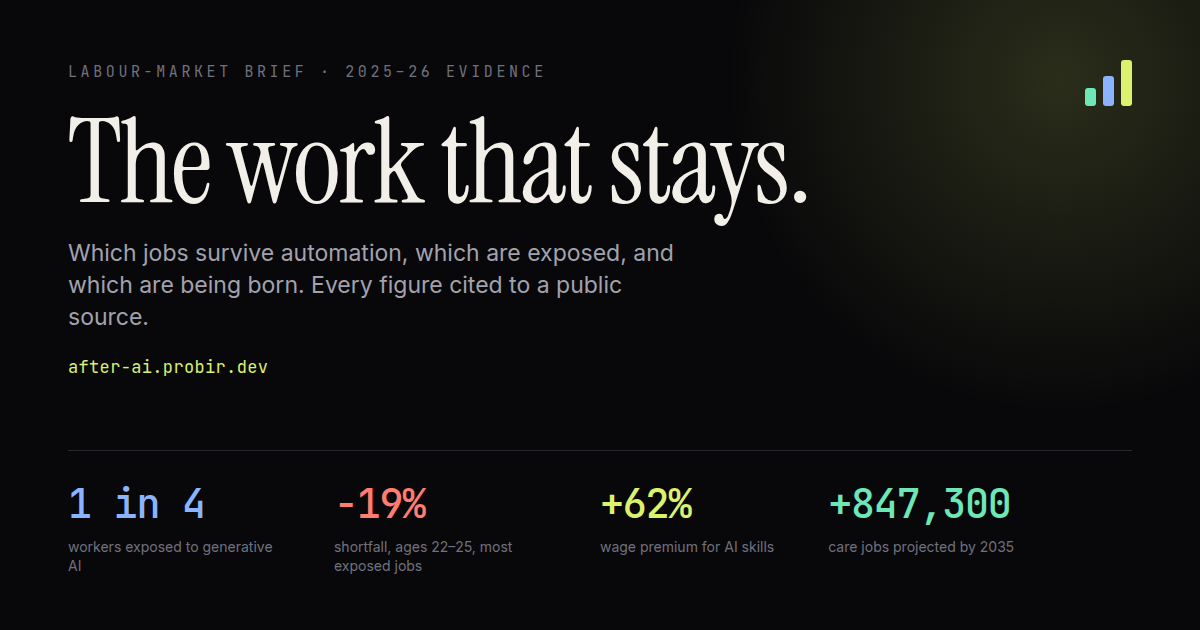
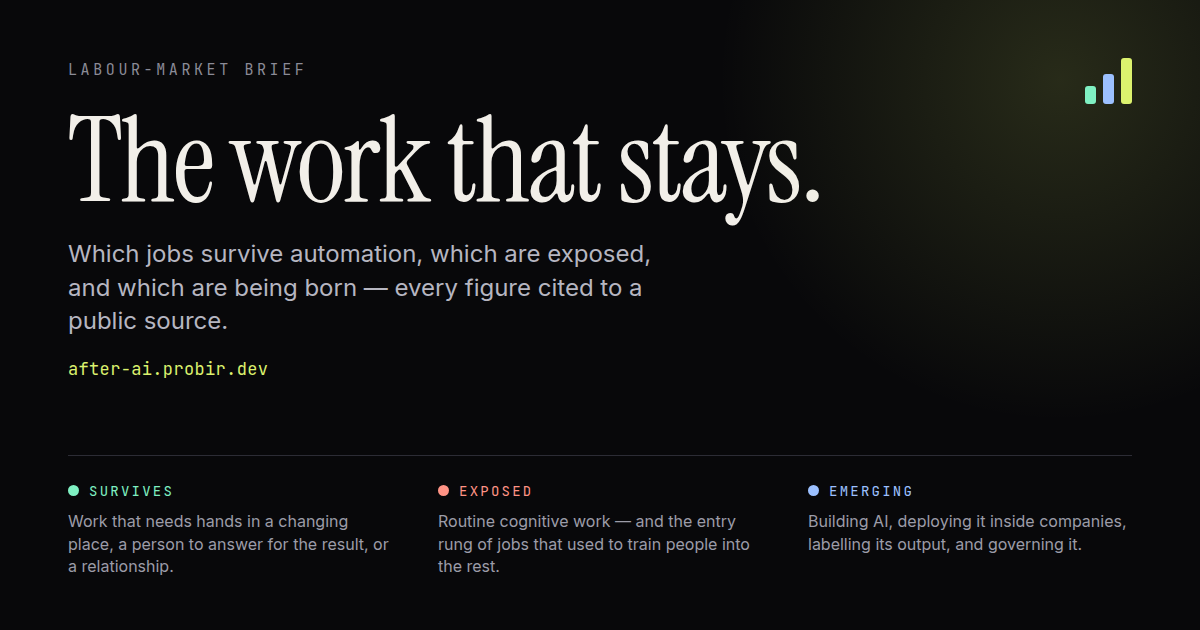
OG card: no figures at all
A number baked into a PNG cannot be derived at build time — the card still said
-16% when the site said -19%. Replaced the four stat blocks with the three
categories (survives / exposed / emerging) and their one-line definitions, so
nothing on the card can go out of date. The eyebrow also drops the '2025-26
evidence' range.

diff --git a/scripts/og-card.html b/scripts/og-card.html
@@ -2,8 +2,11 @@
 <!--
   Source for public/og.png. Rendered with headless Chrome at 1200x630:
     npm run assets
-  No counts are baked in: a number in an image cannot be derived at build time,
-  so it goes stale the moment the site grows.
+
+  No figures appear in this image, by design. A number baked into a PNG cannot be
+  derived at build time, so it goes stale the moment the data is refreshed — the
+  card that said "−16%" was a month behind the site. What is here is only what
+  does not move: the name, the claim, the three categories, and the domain.
 -->
 <html lang="en">
   <head>
@@ -31,7 +34,7 @@
         background: #08080a;
         color: #f2efe9;
         font-family: 'Inter V', system-ui, sans-serif;
-        padding: 62px 68px 54px;
+        padding: 60px 68px 52px;
         display: flex;
         flex-direction: column;
         position: relative;
@@ -39,23 +42,23 @@
       }
       .glow {
         position: absolute;
-        width: 760px;
-        height: 760px;
-        right: -240px;
-        top: -300px;
-        background: radial-gradient(circle, rgba(220, 242, 110, 0.16), rgba(8, 8, 10, 0) 62%);
+        width: 780px;
+        height: 780px;
+        right: -250px;
+        top: -310px;
+        background: radial-gradient(circle, rgba(220, 242, 110, 0.15), rgba(8, 8, 10, 0) 62%);
       }
       .eyebrow {
         font-family: 'Mono V', monospace;
         font-size: 15px;
         letter-spacing: 0.24em;
         text-transform: uppercase;
-        color: #71717e;
+        color: #8b8b97;
       }
       h1 {
         font-family: 'Instrument', Georgia, serif;
         font-weight: 400;
-        font-size: 116px;
+        font-size: 118px;
         line-height: 0.94;
         letter-spacing: -0.02em;
         margin-top: 26px;
@@ -63,74 +66,83 @@
       }
       .sub {
         margin-top: 20px;
-        font-size: 23px;
+        font-size: 24px;
         line-height: 1.4;
-        color: #a2a2ae;
-        max-width: 42ch;
+        color: #b6b6c1;
+        max-width: 40ch;
       }
       .domain {
-        margin-top: 22px;
+        margin-top: 20px;
         font-family: 'Mono V', monospace;
         font-size: 17px;
         letter-spacing: 0.02em;
         color: #dcf26e;
       }
-      .stats {
+      .tracks {
         margin-top: auto;
         display: flex;
-        gap: 54px;
+        gap: 46px;
         padding-top: 26px;
-        border-top: 1px solid #26262f;
-        position: relative;
+        border-top: 1px solid #2c2c35;
       }
-      .stat b {
+      .track { flex: 1; max-width: 330px; }
+      .track .label {
         font-family: 'Mono V', monospace;
-        font-size: 40px;
-        font-weight: 500;
-        letter-spacing: -0.03em;
-        display: block;
-      }
-      .stat span {
-        display: block;
-        margin-top: 8px;
         font-size: 14px;
-        color: #71717e;
-        max-width: 24ch;
-        line-height: 1.35;
+        letter-spacing: 0.16em;
+        text-transform: uppercase;
+        display: flex;
+        align-items: center;
+        gap: 10px;
       }
-      .survive { color: #6ee7b7; }
-      .risk { color: #ff7d6e; }
-      .signal { color: #dcf26e; }
-      .emerge { color: #8ab4ff; }
+      .dot { width: 11px; height: 11px; border-radius: 50%; display: block; }
+      .track p {
+        margin-top: 10px;
+        font-size: 16px;
+        line-height: 1.42;
+        color: #9c9ca8;
+      }
+      .survive { color: #7ff0c2; }
+      .risk { color: #ff9385; }
+      .emerge { color: #9cc0ff; }
       .mark {
         position: absolute;
         right: 68px;
-        top: 60px;
+        top: 58px;
         display: flex;
         gap: 7px;
         align-items: flex-end;
         height: 46px;
       }
       .mark i { display: block; width: 11px; border-radius: 3px; }
-      .mark i:nth-child(1) { height: 18px; background: #6ee7b7; }
-      .mark i:nth-child(2) { height: 30px; background: #8ab4ff; }
+      .mark i:nth-child(1) { height: 18px; background: #7ff0c2; }
+      .mark i:nth-child(2) { height: 30px; background: #9cc0ff; }
       .mark i:nth-child(3) { height: 46px; background: #dcf26e; }
     </style>
   </head>
   <body>
     <div class="glow"></div>
     <div class="mark"><i></i><i></i><i></i></div>
-    <div class="eyebrow">Labour-market brief · 2025–26 evidence</div>
+    <div class="eyebrow">Labour-market brief</div>
     <h1>The work that stays.</h1>
     <p class="sub">
-      Which jobs survive automation, which are exposed, and which are being born. Every figure cited to a public source.
+      Which jobs survive automation, which are exposed, and which are being born — every figure
+      cited to a public source.
     </p>
     <div class="domain">after-ai.probir.dev</div>
-    <div class="stats">
-      <div class="stat"><b class="emerge">1 in 4</b><span>workers exposed to generative AI</span></div>
-      <div class="stat"><b class="risk">−19%</b><span>shortfall, ages 22–25, most exposed jobs</span></div>
-      <div class="stat"><b class="signal">+62%</b><span>wage premium for AI skills</span></div>
-      <div class="stat"><b class="survive">+847,300</b><span>care jobs projected by 2035</span></div>
+    <div class="tracks">
+      <div class="track">
+        <div class="label survive"><span class="dot" style="background:#7ff0c2"></span>Survives</div>
+        <p>Work that needs hands in a changing place, a person to answer for the result, or a relationship.</p>
+      </div>
+      <div class="track">
+        <div class="label risk"><span class="dot" style="background:#ff9385"></span>Exposed</div>
+        <p>Routine cognitive work — and the entry rung of jobs that used to train people into the rest.</p>
+      </div>
+      <div class="track">
+        <div class="label emerge"><span class="dot" style="background:#9cc0ff"></span>Emerging</div>
+        <p>Building AI, deploying it inside companies, labelling its output, and governing it.</p>
+      </div>
     </div>
   </body>
 </html>
